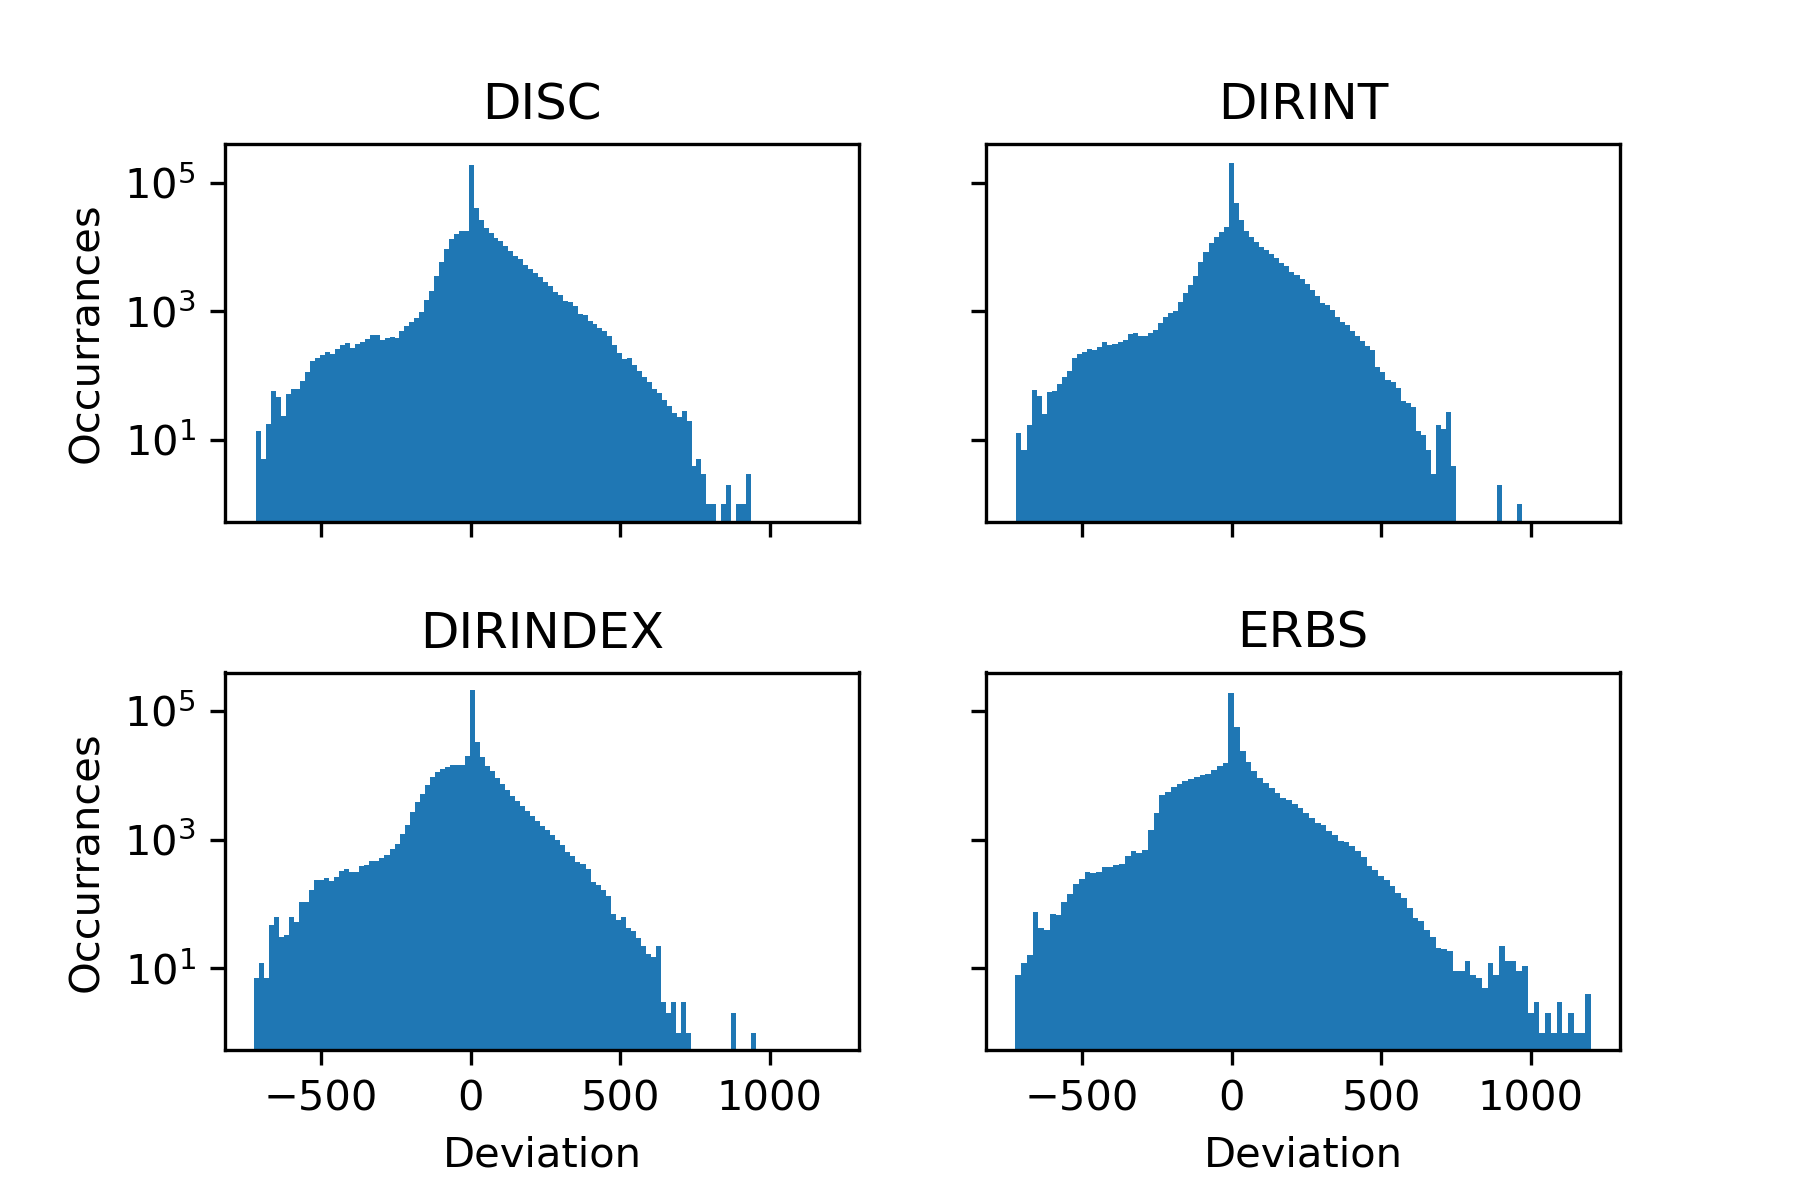
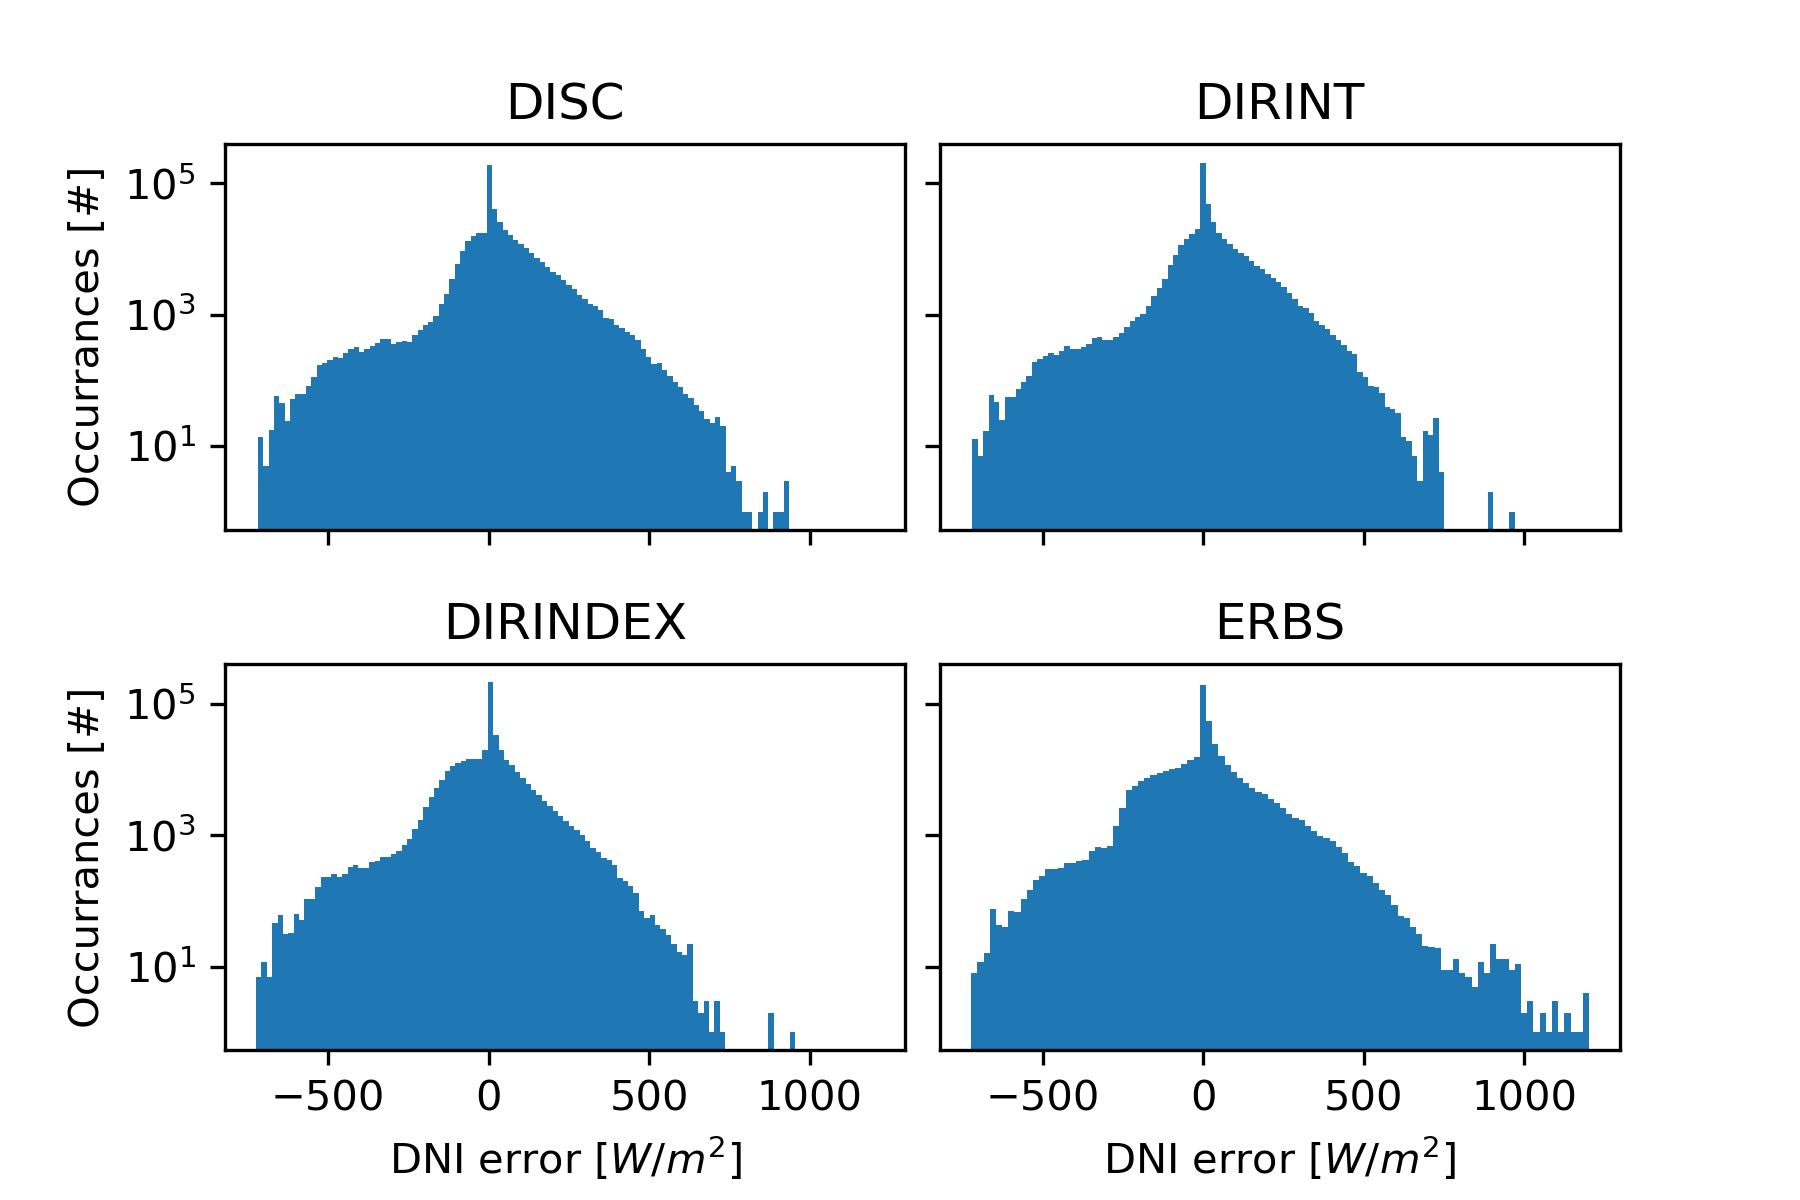
Improve the labels in the figures

diff --git a/src/question1.py b/src/question1.py
@@ -50,7 +50,7 @@ def create_scatterplot(irradiance):
         null
     """
     figure, axes = create_plot(
-        2, 2, xlabel='Measured DNI', ylabel='Computed DNI')
+        2, 2, xlabel='Measured DNI [$W/m^2$]', ylabel='Computed DNI [$W/m^2$]')
 
     for index, model in enumerate(MODELS):
         subplot = axes[index // 2][index % 2]
@@ -73,7 +73,7 @@ def create_histogram(irradiance):
     Returns:
         null
     """
-    figure, axes = create_plot(2, 2, xlabel='Deviation', ylabel='Occurrances')
+    figure, axes = create_plot(2, 2, xlabel='DNI error [$W/m^2$]', ylabel='Occurrances [#]')
 
     for index, model in enumerate(MODELS):
         subplot = axes[index // 2][index % 2]
